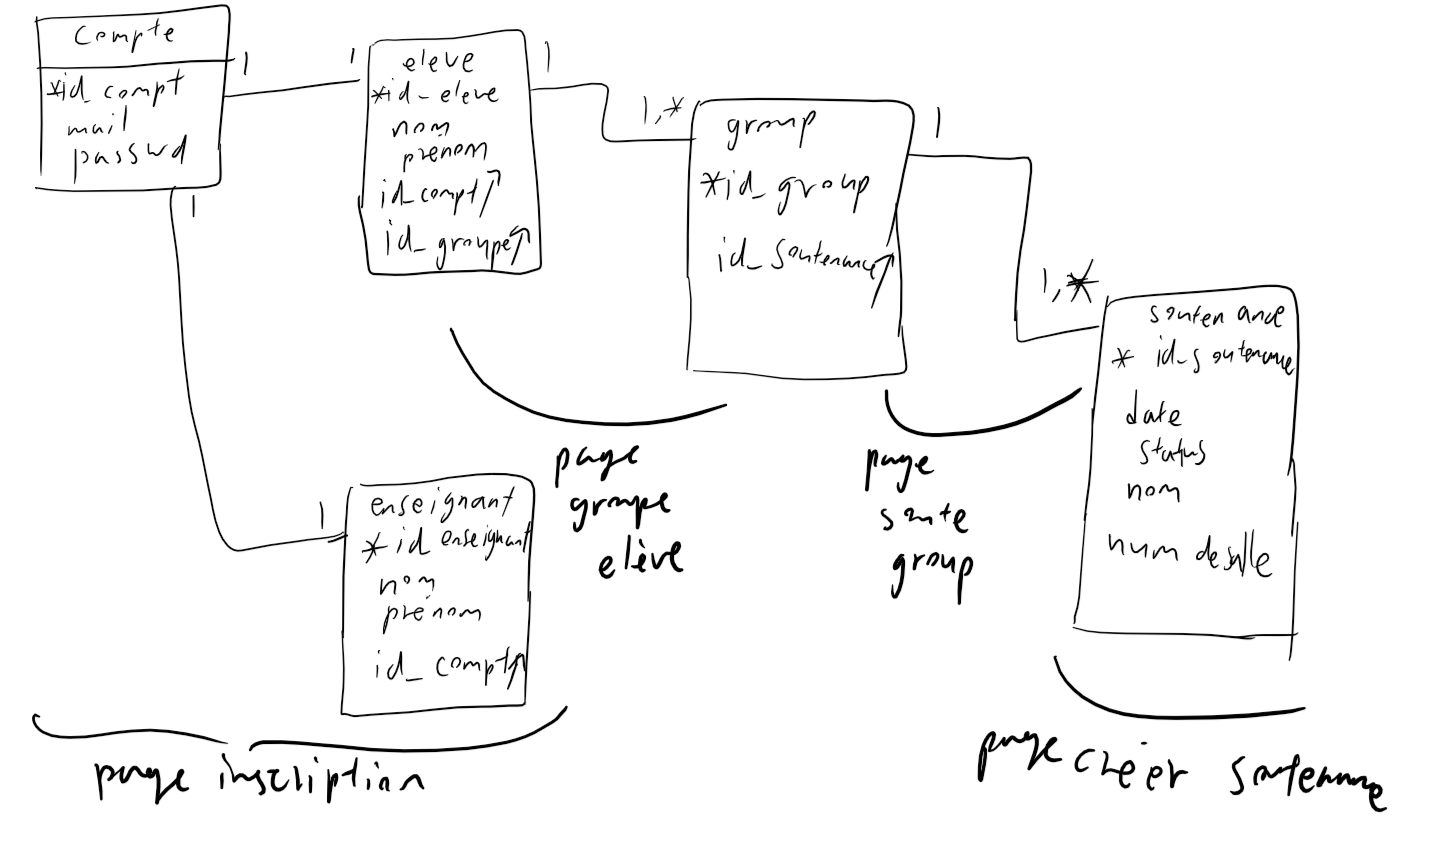
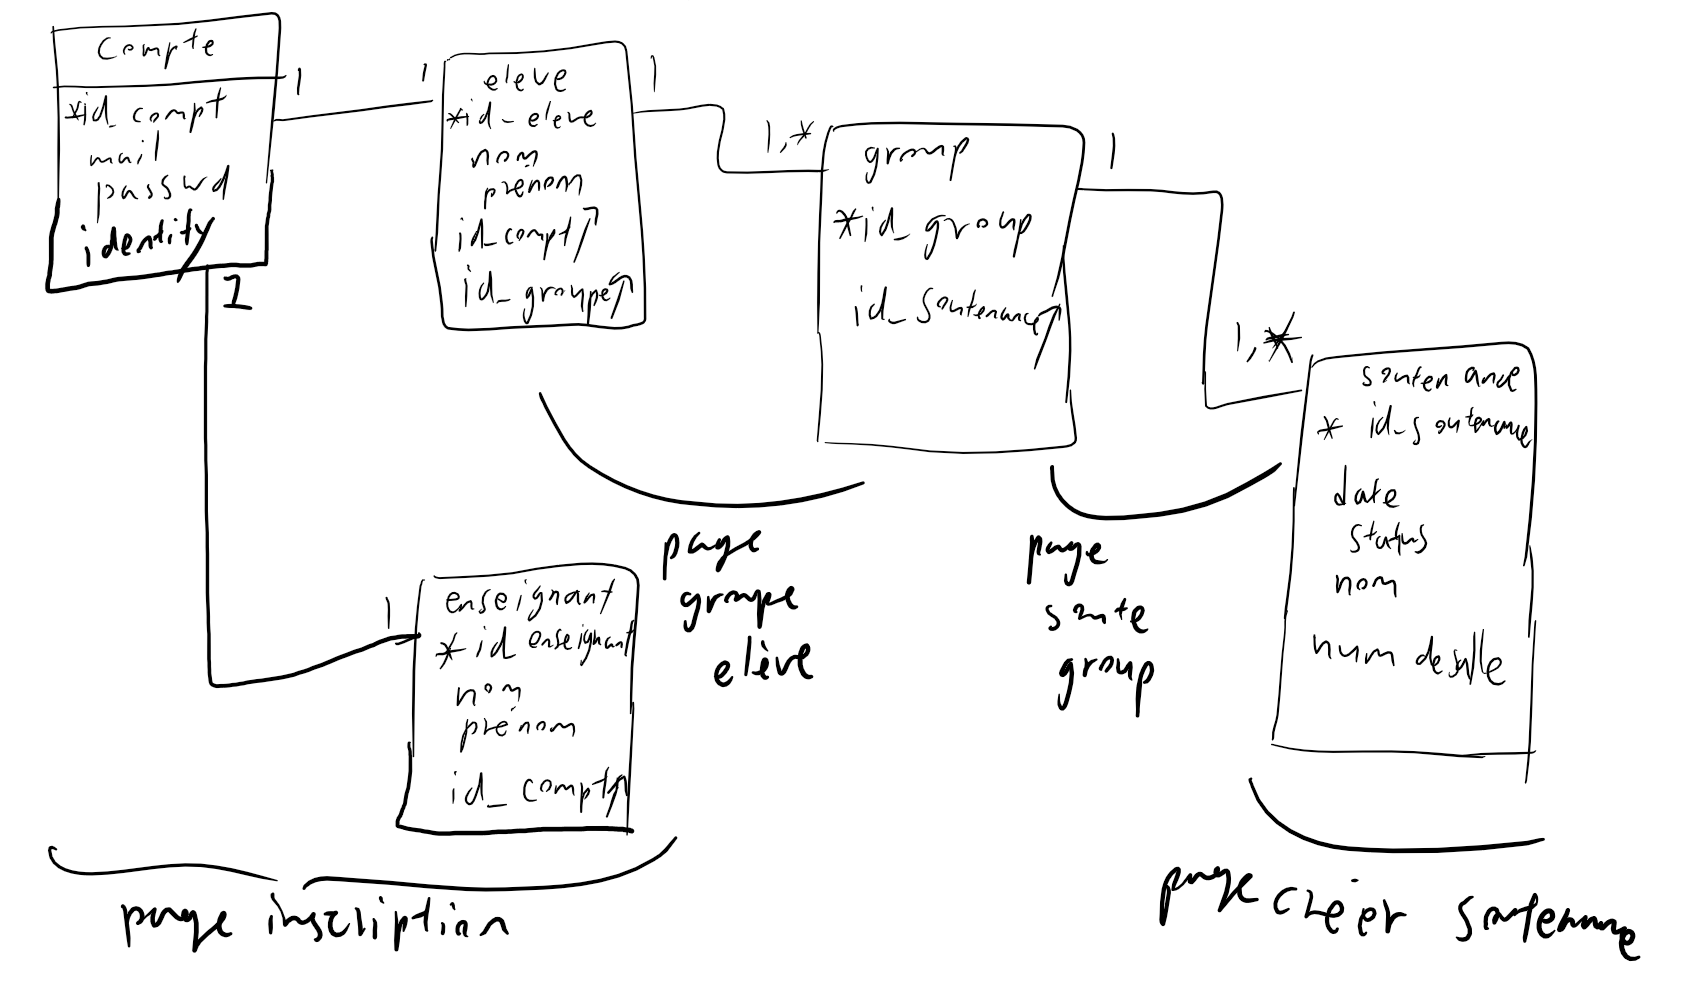
mettre a jour l'image de diagramme;  changer database_design;  sauter de page_valid a page d'enseignant et d'eleve

diff --git a/src/page_login_valid.php b/src/page_login_valid.php
@@ -21,9 +21,41 @@ include './PHPfiles inc/header.inc.php';
 	
 	<div id="login_valid">
 		valid
+		<small style="font-size: 0.3em;">3 seconds</small><br>
 		<!-- get method for pass the parameter log out-->
 		<a href="?logout=1" class="btn btn-outline-danger">Log out</a>
 	</div>
+	<?php
+		if ($_SESSION['identity'] == 'enseignant'){
+			
+			echo "<script>
+				    document.onreadystatechange = function(){
+				        if(document.readyState == 'complete'){
+				        	setTimeout(function () {
+				        		self.location='enseignant_0.php';
+				        	}, 3000);
+				            
+				        }
+				    }
+				 </script>";
+	
+			exit;
+		}
+		if ($_SESSION['identity'] == 'eleve'){
+			echo "<script>
+				    document.onreadystatechange = function(){
+				        if(document.readyState == 'complete'){
+				        	setTimeout(function () {
+				        		alert('skip to the page eleve!');
+				        	}, 3000);
+				            
+				        }
+				    }
+				 </script>";
+			
+			exit;
+		}
+	?>
 
 
 	<?php include'./PHPfiles inc/scripts.inc.php';?>

diff --git a/src/page_login.php b/src/page_login.php
@@ -53,7 +53,7 @@ if(isset($_POST['login']))
     //connect to mysql
     require_once('./PHPfiles inc/param.inc.php');
     $mysqli = new mysqli($host,$login,$password,$dbname);
-    $query = "SELECT count(*) FROM compte where mail ='".$user."' and passwd = '".sha1($passwd)."'";
+    $query = "SELECT count(*),identity FROM compte where mail ='".$user."' and passwd = '".sha1($passwd)."'";
     // use sha1() for encryption password
     $result = mysqli_query($mysqli,$query);
     if(!$result)
@@ -63,10 +63,12 @@ if(isset($_POST['login']))
     }
     $row = mysqli_fetch_row($result);
     $count = $row[0];
+    $identity = $row[1];
     // the database doesn't have different users, so the result is 1 or 0
     if($count >0 )
     {
         $_SESSION['loggedin']=1;
+        $_SESSION['identity']=$identity;
         header("Location:page_login_valid.php");
         exit;
     }

diff --git a/src/enseignant_0.php b/src/enseignant_0.php
@@ -30,6 +30,8 @@ include './PHPfiles inc/header.inc.php';
 	<a class="col-xm-12 col-sm-12 btn btn-outline-primary btn-lg" href="enseignant_4.php">gérer groupe</a>
 	<br><br><br><br>
 	<a class="col-xm-12 col-sm-12 btn btn-outline-primary btn-lg" href="enseignant_5.php">import élève</a>
+	<br><br><br><br>
+	<a href="?logout=1" class="btn btn-outline-danger">Log out</a>
 </div>
 
 </div>
